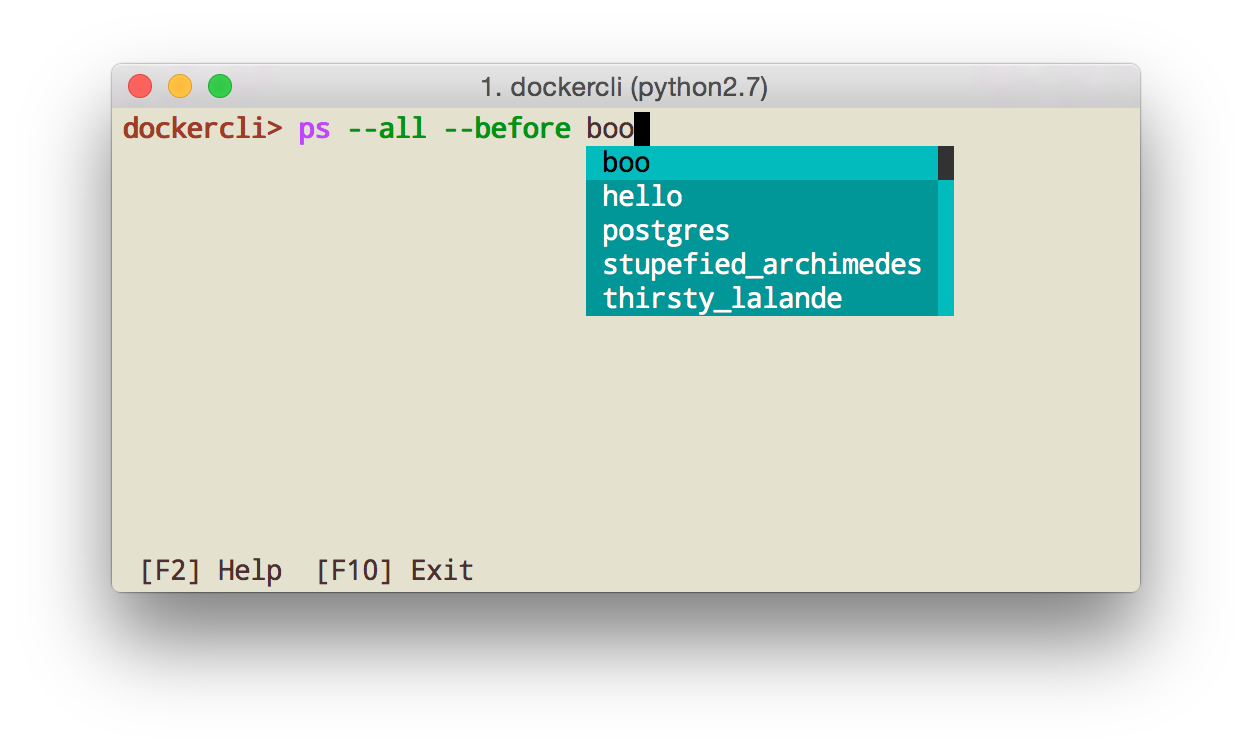
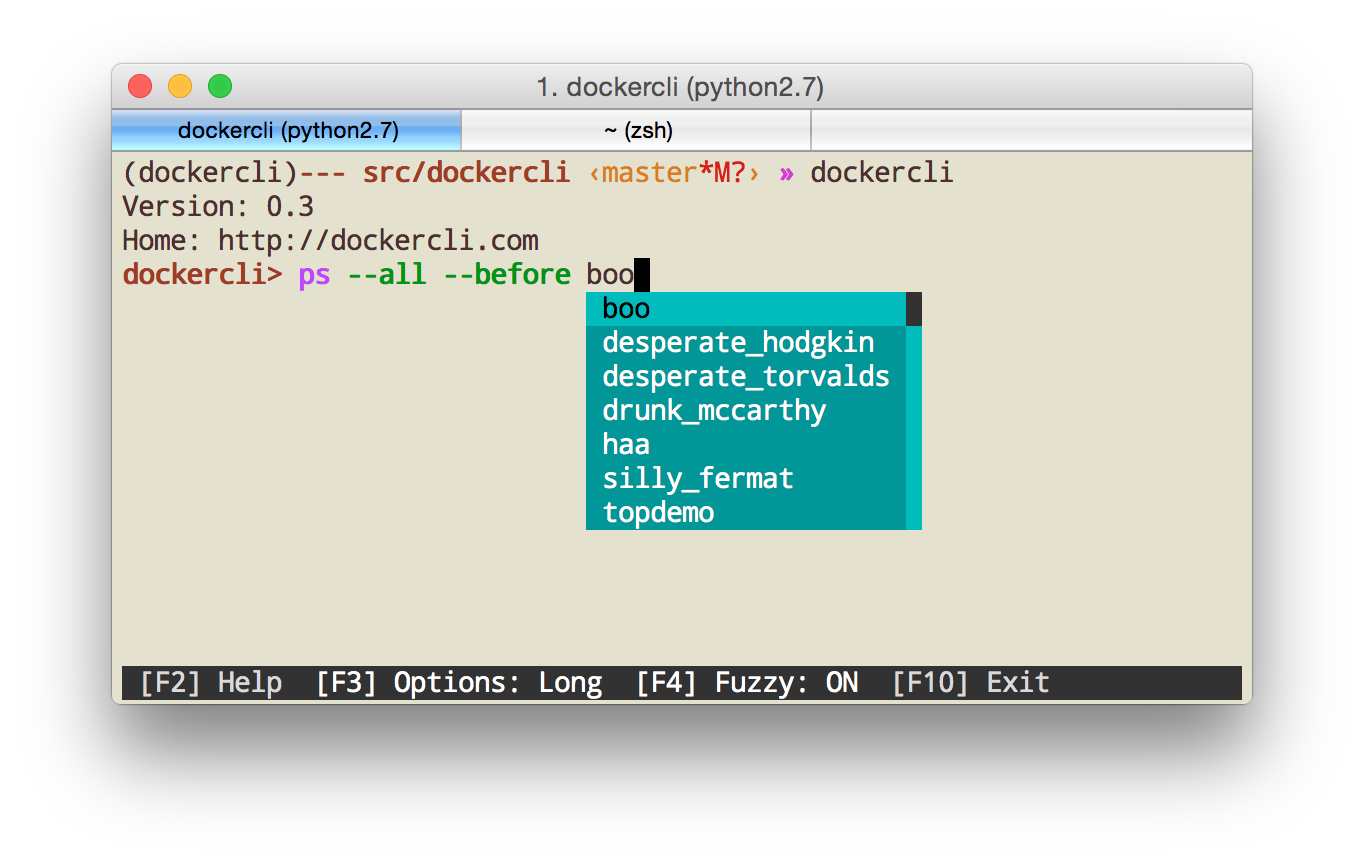
Updated version to 0.3. Updated screenshots. Updated changelog. Fixed tests.

Changed region(s): [[0.0623, 0.0612, 0.9345, 0.8258]]

diff --git a/dockercli/completer.py b/dockercli/completer.py
@@ -198,11 +198,15 @@ class DockerCompleter(Completer):
                 def is_current(o):
                     return word in o.names
 
+                def get_opt_name(t):
+                    return t.get_name(long_options)
+
                 positionals = []
                 possible_options = [x for x in all_options(command) if is_unused(x)
                                     or is_current(x)
                                     or x.is_multiple]
-                named_options = sorted([x for x in possible_options if x.name.startswith('-')])
+                named_options = sorted([x for x in possible_options if x.name.startswith('-')],
+                                       key=get_opt_name)
                 positional_options = [x for x in possible_options if not x.name.startswith('-')]
 
                 named_option_map = {}

diff --git a/tests/test_completer.py b/tests/test_completer.py
@@ -121,7 +121,7 @@ def test_command_completion(command, expected):
 
 
 @pytest.mark.parametrize("command, expected", [
-    ("h", ['help', 'shell', 'push', 'search']),
+    ("h", ['help', 'shell', 'push', 'attach', 'search']),
     ("he", ['help', 'shell']),
     ("hel", ['help', 'shell']),
     ("help", ['help']),
@@ -142,7 +142,7 @@ def test_command_completion_fuzzy(command, expected):
         Document(text=command, cursor_position=position),
         e))
 
-    expected = map(lambda t: Completion(t, -len(command)), expected)
+    expected = list(map(lambda t: Completion(t, -len(command)), expected))
 
     assert result == expected
 

diff --git a/dockercli/main.py b/dockercli/main.py
@@ -298,9 +298,9 @@ class DockerCli(object):
                 break
 
             # TODO: uncomment for release
-            # except Exception as ex:
-            #    click.secho("{0}".format(ex), fg='red')
-            #    break
+            except Exception as ex:
+                click.secho("{0}".format(ex), fg='red')
+                break
 
         self.revert_less_opts()
         self.write_config_file()

diff --git a/dockercli/__init__.py b/dockercli/__init__.py
@@ -1,1 +1,1 @@
-__version__ = '0.2'
+__version__ = '0.3'

diff --git a/changelog.rst b/changelog.rst
@@ -1,3 +1,42 @@
+0.3
+===
+
+Features:
+---------
+
+* More supported commands:
+
+::
+
+  attach
+  build
+  clear
+  create
+  exec
+  login
+  logs
+  pause
+  port
+  push
+  restart
+  shell (shortcat for "exec <container name> <shell command>")
+  tag
+  top
+  unpause
+
+* Implemented interactive terminal mode for "start", "run" and "exec".
+* Added fuzzy matching option to completion suggestions.
+* Completer can suggest either short or long option names.
+* Added more options to "run", including volumes, ports and and links.
+* Non-standard options are moved into a separate group in command help.
+* Prettier formatting of "images" and "ps" output.
+
+Bug fixes:
+----------
+
+* Completer crashing on unexpected characters.
+* Completer crashing inside an unfinished quoted string.
+
 0.2
 ====
 
